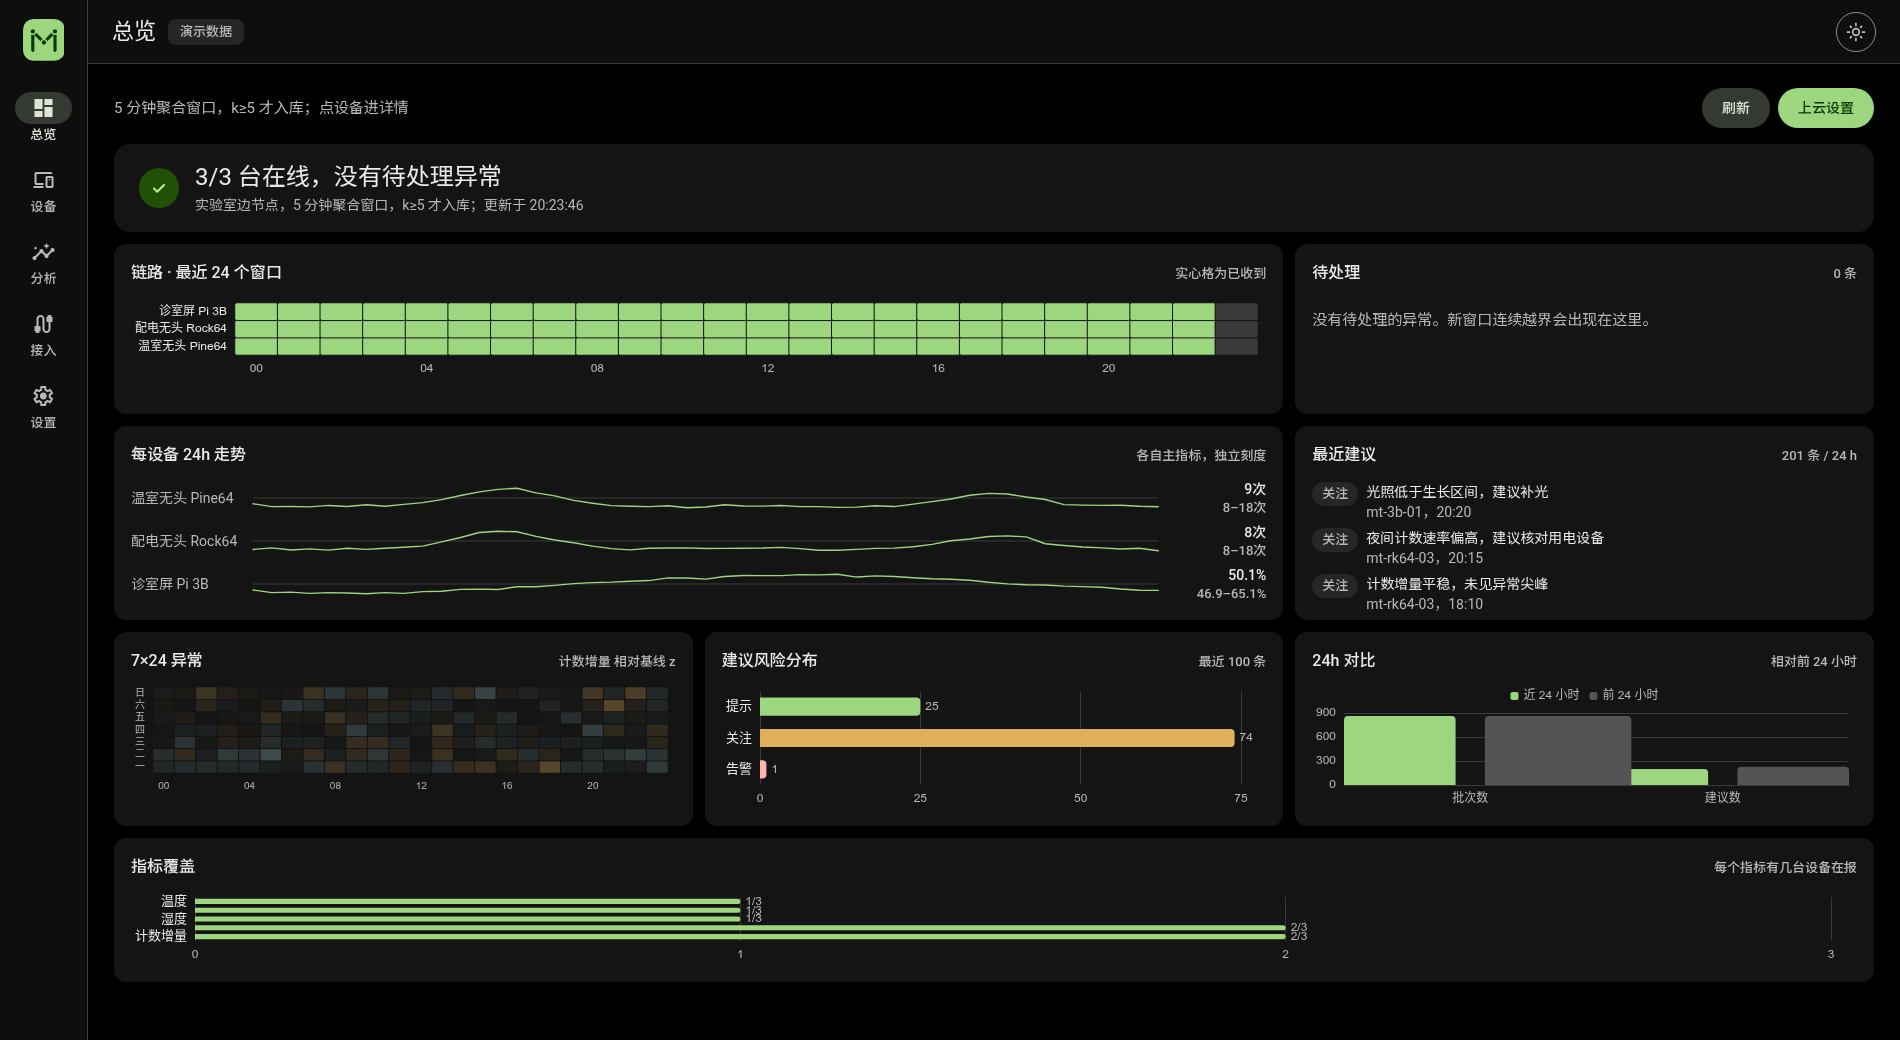
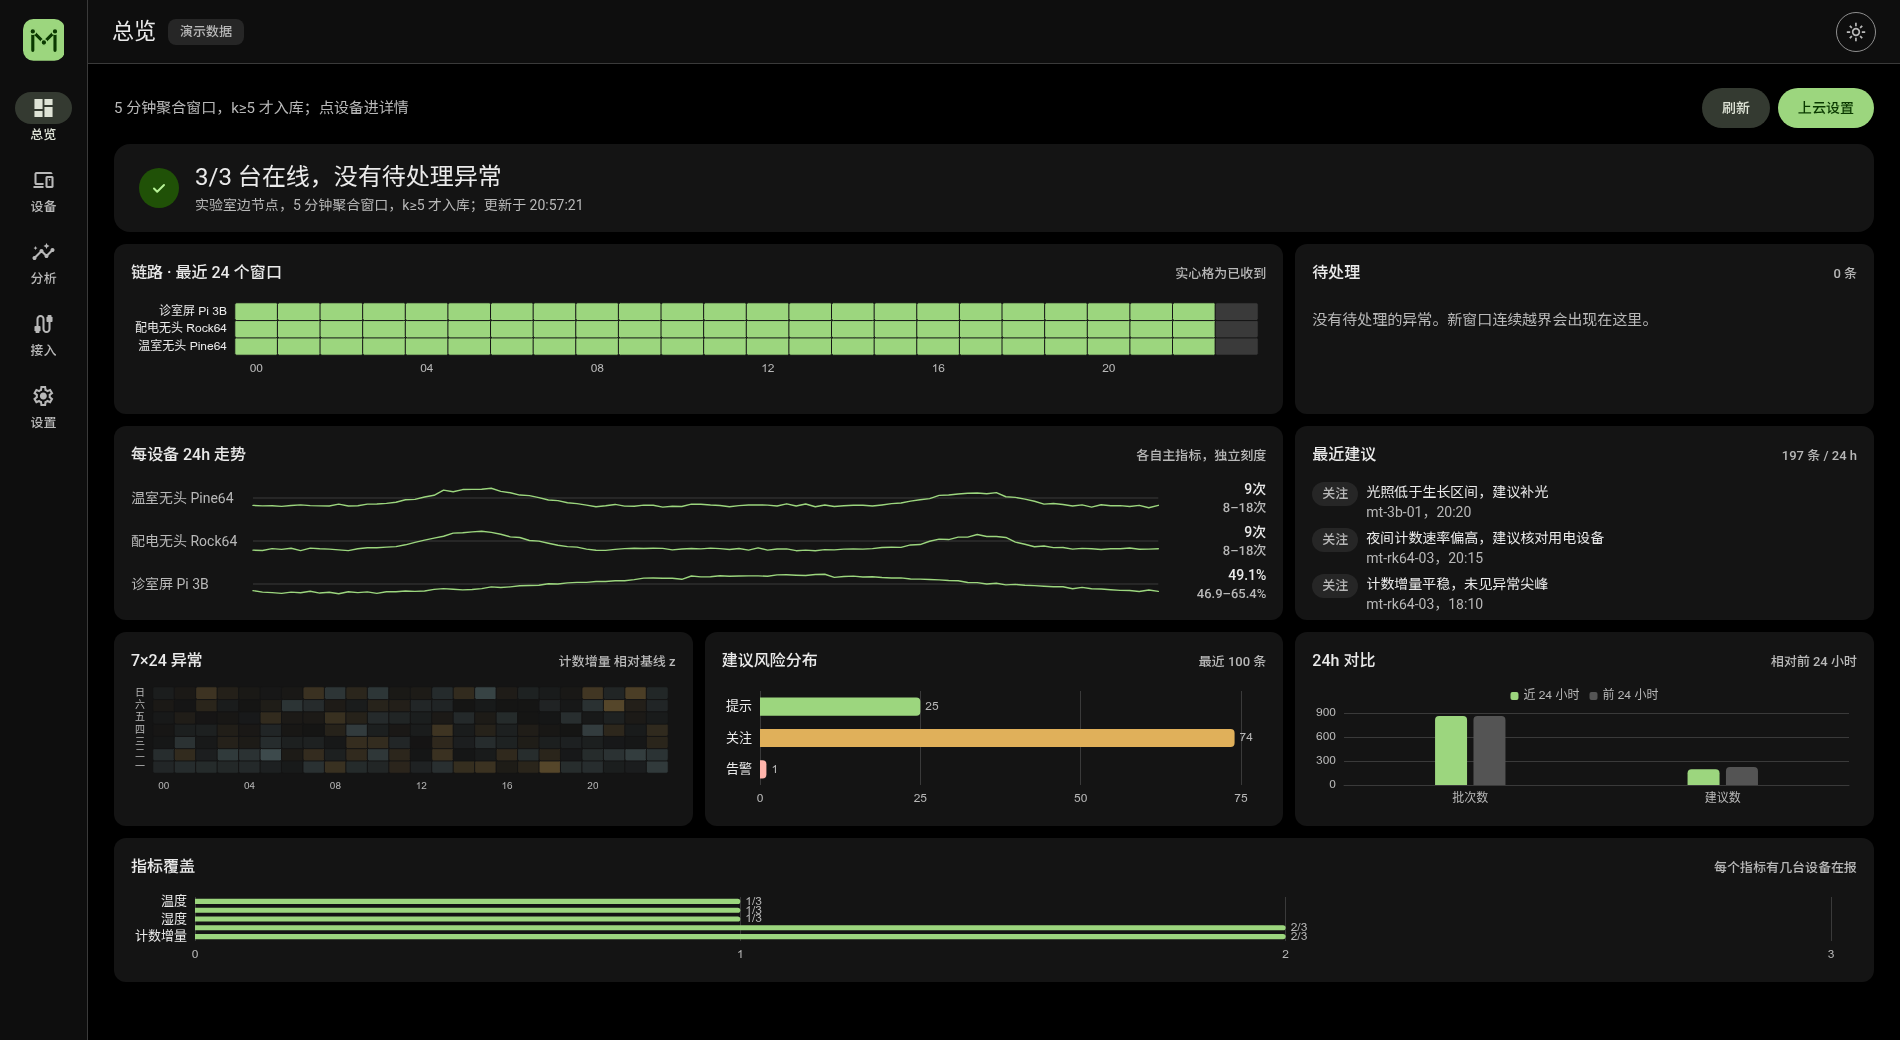
fix(web): 24h 对比的柱子封顶 32px，别再夹住类目标签 (#23)
只有 2 个类目 × 2 根柱时，barWidth: 58% 会按类目宽度算，1900 下每根
撑到 110–155px，两根几乎贴在一起，「批次数/建议数」被夹在柱子中间，
看着像被遮挡。加 barMaxWidth: 32，窄屏仍按 58% 收缩。

diff --git a/web/src/views/Overview.vue b/web/src/views/Overview.vue
@@ -196,9 +196,10 @@ const deltaOption = computed(() => {
              axisLine: { lineStyle: { color: t.split } }, axisTick: { show: false } },
     yAxis: { type: 'value', splitNumber: 3, splitLine: { lineStyle: { color: t.split } }, axisLabel: { fontSize: 12, color: t.axis } },
     series: [
-      { name: '近 24 小时', type: 'bar', data: rows.map((r) => r.cur), barWidth: '58%',
+      // 只有 2 个类目：不给上限 58% 会撑到 100px 以上，两根柱贴在一起把类目标签夹住
+      { name: '近 24 小时', type: 'bar', data: rows.map((r) => r.cur), barWidth: '58%', barMaxWidth: 32,
         itemStyle: { color: t.line, borderRadius: [4, 4, 0, 0] } },
-      { name: '前 24 小时', type: 'bar', data: rows.map((r) => r.prev), barWidth: '58%',
+      { name: '前 24 小时', type: 'bar', data: rows.map((r) => r.prev), barWidth: '58%', barMaxWidth: 32,
         itemStyle: { color: t.muted, borderRadius: [4, 4, 0, 0] } },
     ],
   }
